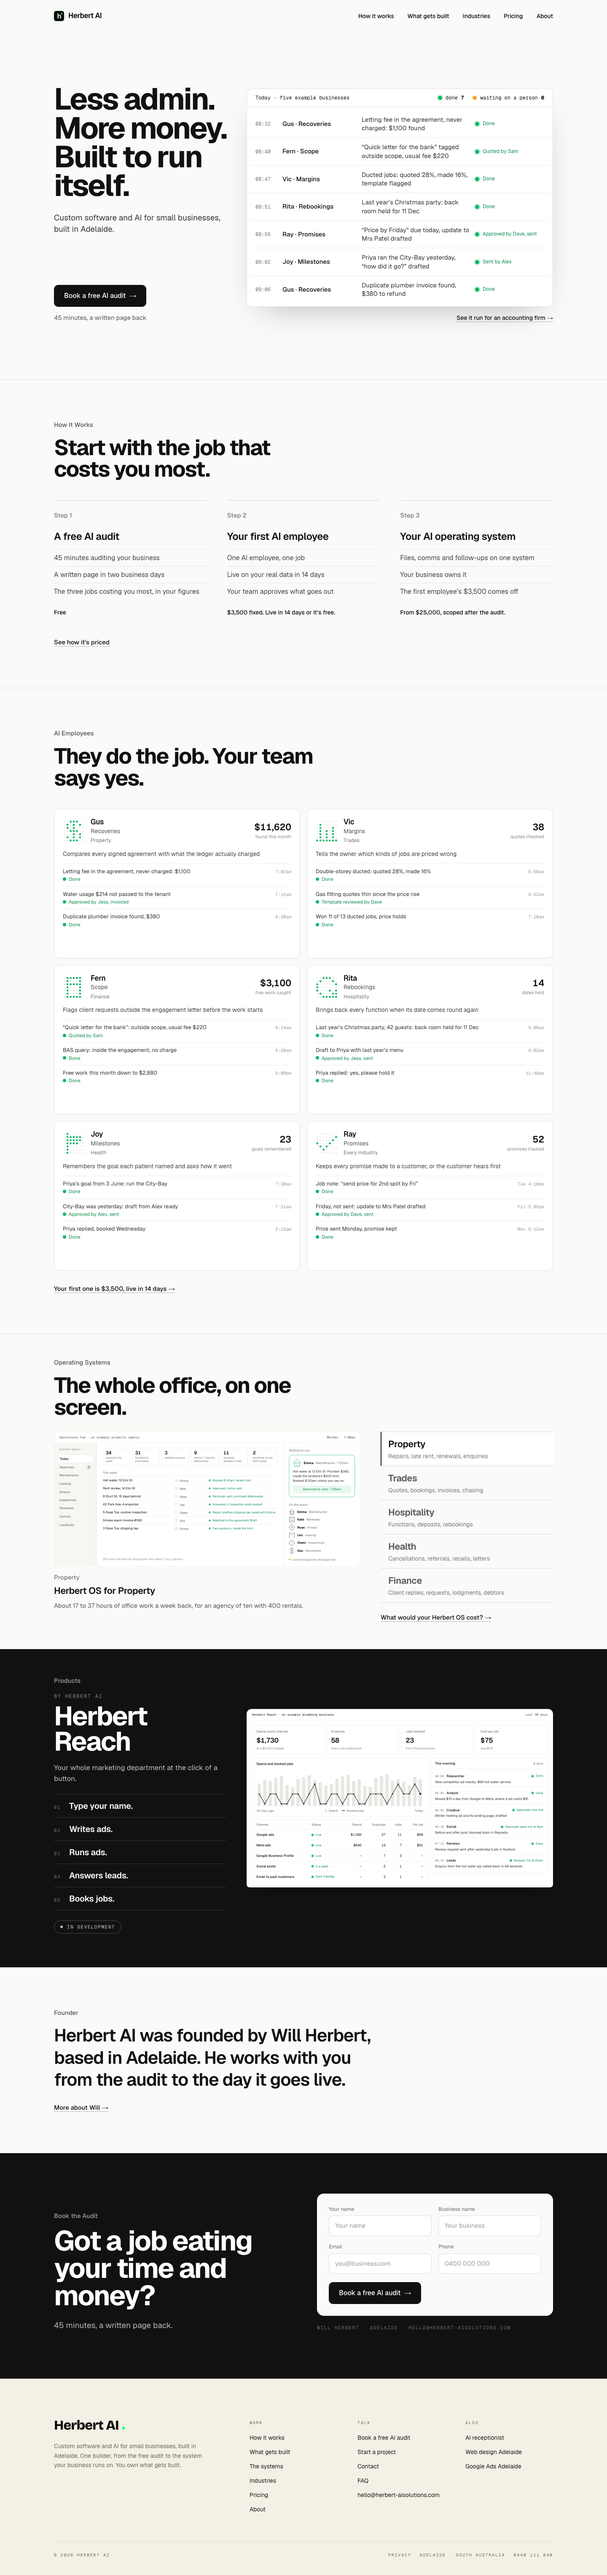
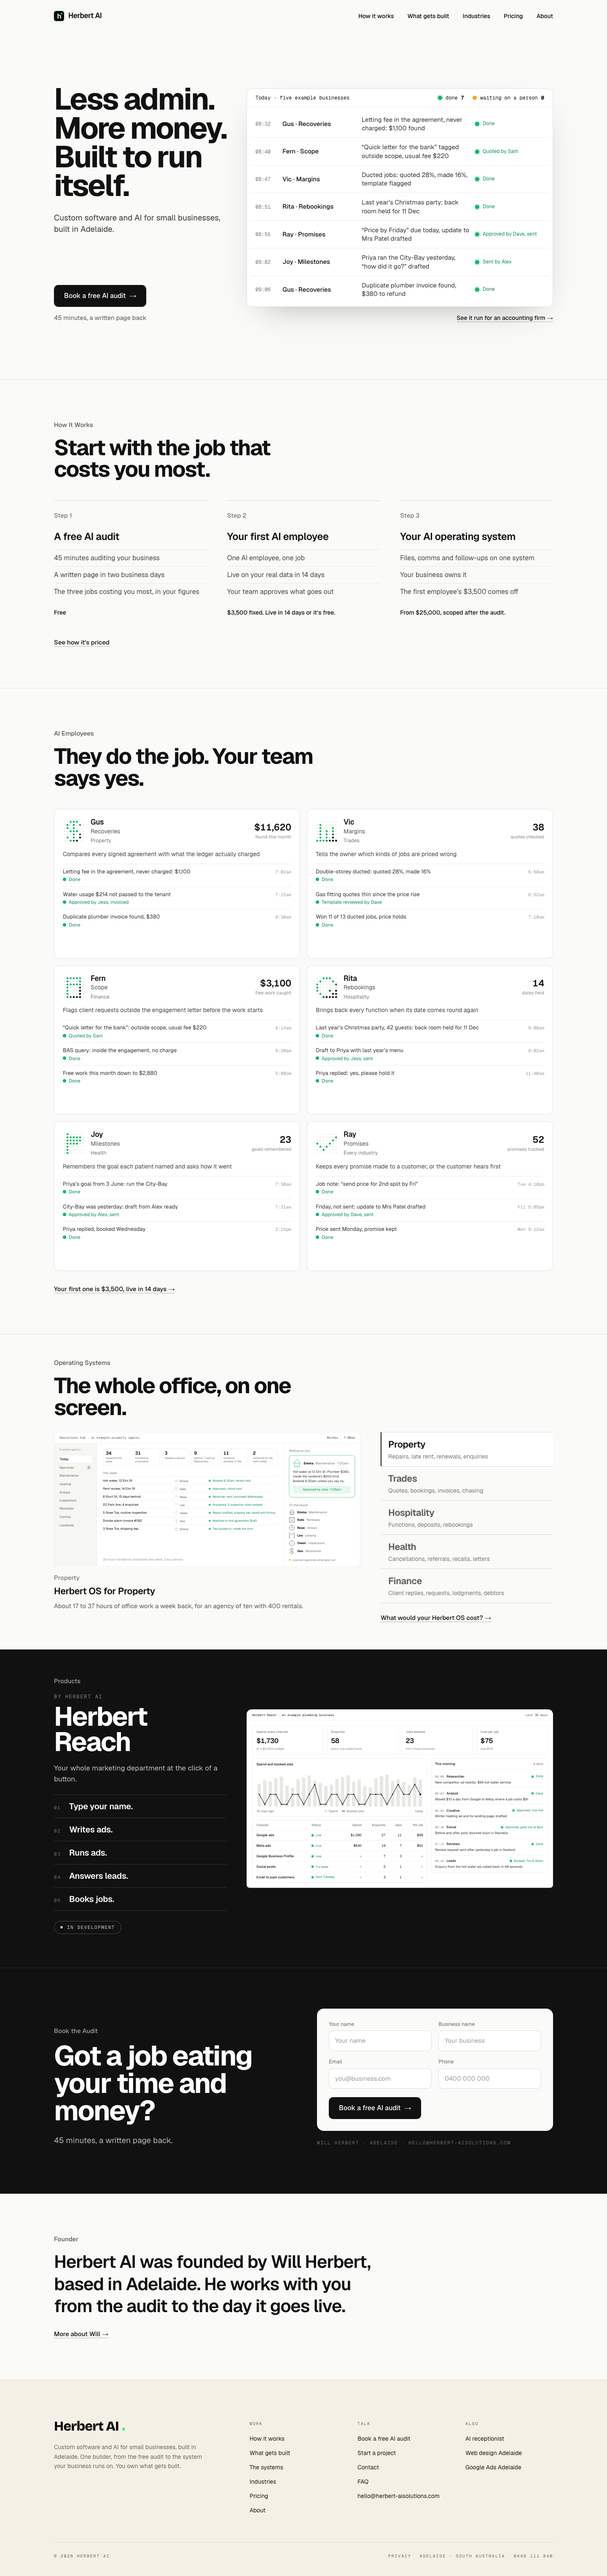
home: the founder note closes the page, under the booking form; products and the audit run dark together

diff --git a/herbertai-website/src/app/page.js b/herbertai-website/src/app/page.js
@@ -19,8 +19,8 @@ export default function Home() {
       <EmployeesSection />
       <OperatingSystemsSection />
       <ProductsSection />
-      <FounderNote />
       <FinalCTA />
+      <FounderNote />
     </>
   )
 }
@@ -80,6 +80,9 @@ function HowItWorks() {
 // Operating Systems: components/runs/OperatingSystemsSection.js (15 Oct 2026).
 // The Work is folded into it; WorkSection.js stays for the /work page.
 
+// The founder note is the last section, under the booking form (Will, 20 Oct
+// 2026, phase 4: "i think we have founder at the bottom"), so Products and Book
+// the Audit run dark together, split by a hairline.
 // Who Builds It, rebuilt 19 Oct 2026 for the "Runs itself" charter: option 1,
 // the note set plain (Will: "1"). Will's first-person line large on the paper
 // ground, the label and a link to About; no photo, since the charter keeps the
@@ -118,7 +121,7 @@ function FounderNote() {
 // docs/design/design-pass-site-2026-10-19-audit.png.
 function FinalCTA() {
   return (
-    <section className="bg-[#111] text-white">
+    <section className="bg-[#111] text-white border-t border-white/10">
       <div className="max-w-[1280px] mx-auto px-6 lg:px-12 pt-24 pb-28 grid lg:grid-cols-2 gap-x-16 gap-y-12 items-end">
         <div className="min-w-0">
           <p className="text-[15px] font-medium text-white/60 mb-4">Book the Audit</p>

diff --git a/herbertai-website/docs/design/design-pass-site-2026-09.md b/herbertai-website/docs/design/design-pass-site-2026-09.md
@@ -26,7 +26,7 @@ done. Updated in the same commit as the work.
 | 1. Concept | [x] | "Runs itself" picked over "Now hiring", 22 Sep 2026 |
 | 2. Skeleton | [x] | Settled 14 Oct 2026; seven sections from 15 Oct (The Work folded into Operating Systems) |
 | 3. Sections | [x] | All seven sections picked, built and detailed; Book the Audit done 20 Oct 2026 |
-| 4. Whole page | [~] | Findings 20 Oct: spacing holds; the Founder strip between two dark bands; one repeated line; three moving sections in a row; the footer still May |
+| 4. Whole page | [~] | 20 Oct: Founder moved to the bottom; open: the contact line beside the founder note, the repeated line, the motion run, the May footer |
 | 5. Phones | [~] | AI Employees, Operating Systems, Products, Who Builds It and Book the Audit signed off as phone designs (to 20 Oct); Hero and How It Works unchecked |
 | 6. Words and claims | [~] | Figures framed as worked examples with no labels; "Herbert Reach" settled 17 Oct (registers clear; always in full, since bare REACH is a live mark); "Herbert OS" still needs its checks; Herbert Reach sold as defined, marked In development, no link out (19 Oct) |
 | 7. Other pages | [ ] | Industry pages on the new slugs, the AI Employees page, a Herbert Reach page, pricing, about |
@@ -2046,4 +2046,18 @@ Finding 2 drawn: `design-pass-site-2026-10-20-page-order.png`, the whole page
 at 1440 three ways: today; 1 Founder moved up between Operating Systems and
 Products, light then dark (recommended); 2 Founder turned ink, three dark bands
 to the end. Awaiting Will’s word on findings 2 to 5.
+Will (20 Oct 2026): "i think we have founder at the bottom".
+
+## [x] Phase 4, finding 2: the founder note at the bottom (20 Oct 2026)
+
+Built: the homepage order is Hero, How It Works, AI Employees, Operating
+Systems, Products, Book the Audit, Founder. Products and Book the Audit run
+dark together with a hairline between them (`border-white/10` on the booking
+section), and the founder note closes the page above the footer. Verified at
+1440, 1280, 375 and 320, motion on and off: no overflow, no errors. Charter’s
+section list renumbered. As built: `assets-2026-10-20/home-end-1440.png` and
+`home-whole-1440.png`. New, from the move: the contact line under the form
+("Will Herbert · Adelaide · email") now sits straight above the founder note,
+which says the same. Findings 3, 4 and 5 (the repeated line, the motion run,
+the May footer) still open.
 

diff --git a/herbertai-website/docs/design/CHARTER.md b/herbertai-website/docs/design/CHARTER.md
@@ -214,10 +214,11 @@ steps as being AI audit, AI employee, and then AI Operating System").
    click of a button.", and the product as a story in five numbered steps:
    Type your name, Writes ads, Runs ads, Answers leads, Books jobs (19 Oct
    2026).
-6. Who Builds It: the founder, named, said flat in the third person under the
-   label Founder, no photo (19 Oct 2026).
-7. Book the Audit: the three audit facts and the booking form itself, the
-   shared AuditForm that /pilot#book also uses (20 Oct 2026).
+6. Book the Audit: one line and the booking form itself, the shared AuditForm
+   that /pilot#book also uses (20 Oct 2026).
+7. Who Builds It: the founder, named, said flat in the third person under the
+   label Founder, no photo (19 Oct 2026); the last section, under the booking
+   form (20 Oct 2026, phase 4).
 
 The research behind the order and the motion rule:
 `research-order-and-motion-2026-10-14.md`.
